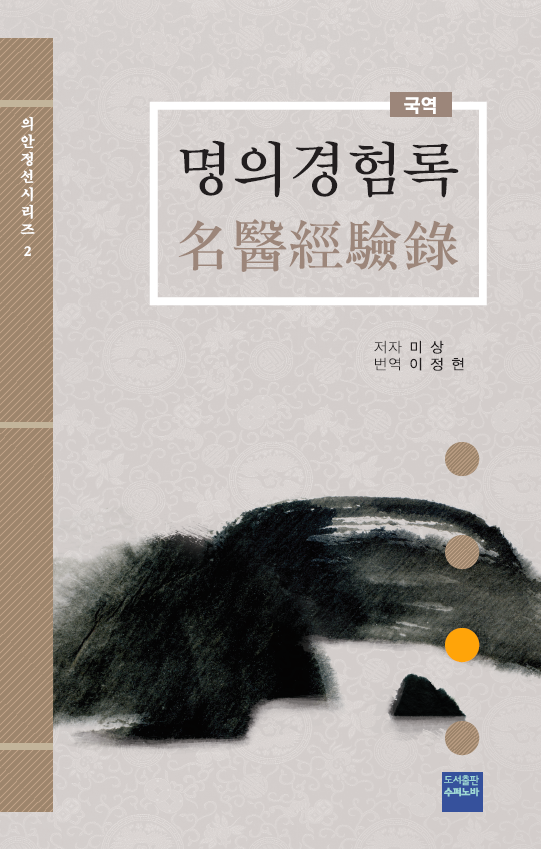
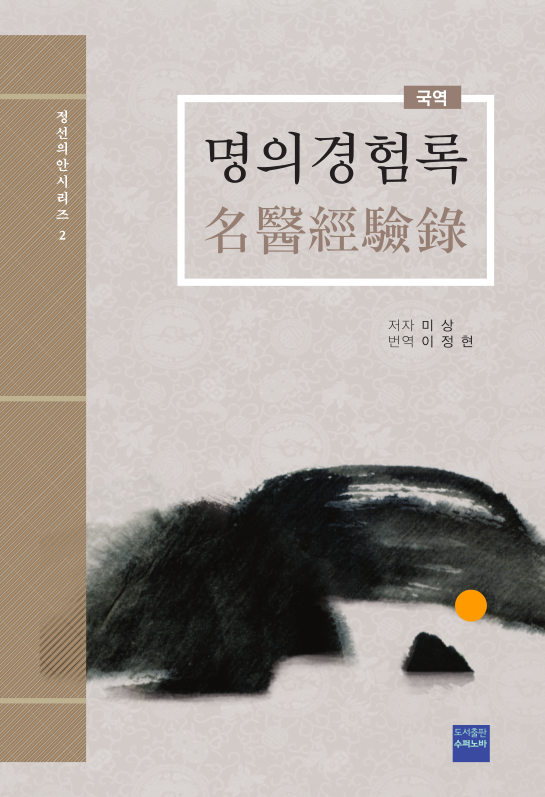
update

diff --git a/js/ng-index.js b/js/ng-index.js
@@ -82,7 +82,7 @@ function ($scope, $http, $routeParams, api) {
 	// $routeParams.book = ["ebook", "정선의안"]
 	var title = {
 		"ebook" : { main: "eBook", desc: "한의학 고전 국역서" },
-		"의안정선" : { main: "의안정선시리즈", desc: "한의학 고전 국역서"}
+		"정선의안" : { main: "정선의안시리즈", desc: "한의학 고전 국역서"}
 	}
 
 	function getEbookInfo( where ){
@@ -111,7 +111,7 @@ function ($scope, $http, $routeParams, api) {
 
 		var i=0; var shelfsize=6; var tmp
 		var ebookinfos = []
-		for(i=0;i < 100; i=i+shelfsize) {
+		for(i=0;i < 60; i=i+shelfsize) {
 			tmp = _data.slice(i, i+shelfsize)
 			if(tmp.length<1){ break; }
 			ebookinfos.push (tmp)

diff --git a/views/main.html b/views/main.html
@@ -68,7 +68,7 @@
 		<h3>비정기 발간서</h3>
 		<h4>국역서 / 다국어 번역서 / 연구서</h4>
 		<p>한국 전통의학 연구에 도움이 되는 서적들을 비정기적으로 간행하고 있습니다.</p>
-		<a class="btn btn-primary" href="#/shelf/의안정선">의안정선시리즈
+		<a class="btn btn-primary" href="#/shelf/정선의안">정선의안시리즈
 			<span class="glyphicon glyphicon-chevron-right"></span></a>
 	</div>
 </div>
